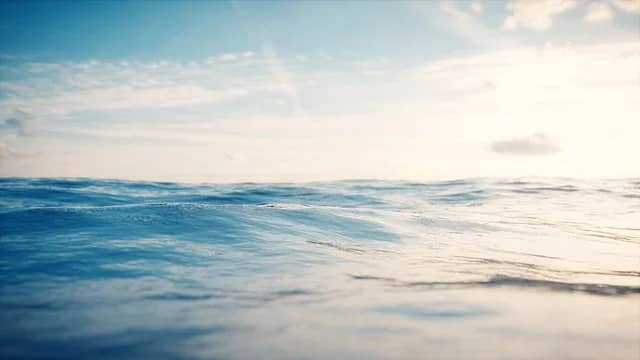
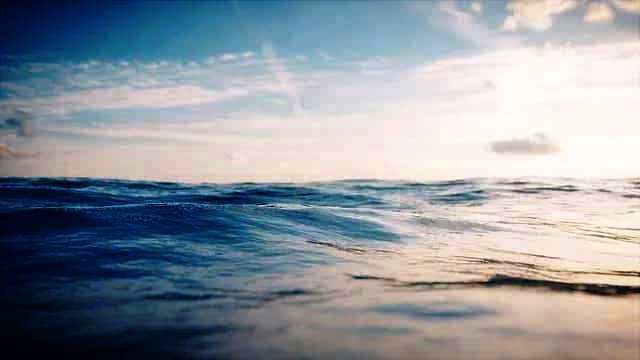
fetcn

diff --git a/html/index.html b/html/index.html
@@ -20,17 +20,19 @@
   <nav class="navbar navbar-expand-md bg-default navbar-light">
     <div class="container-fluid">
       <div class="navbar-header">
-        <a href="/html/index.html" class="navbar-brand">Pixabay</a>
+        <ul class="navbar-nav" id="nav">
+          <li><a href="/html/index.html" class="navbar-brand">
+              <h4>Pixabay</h4>
+            </a></li>
+          <li><a class="nav-link" href="#">Photos</a></li>
+          <li>
+            <a class="nav-link" href="#">Illustrations</a>
+          </li>
+          <li><a class="nav-link" href="#">Vectors</a></li>
+          <li><a class="nav-link" href="#">Videos</a></li>
+          <li><a class="nav-link" href="#">Music</a></li>
+        </ul>
       </div>
-      <ul class="navbar-nav">
-        <li><a class="nav-link" href="#">Photos</a></li>
-        <li class="nav-item">
-          <a class="nav-link" href="#">Illustrations</a>
-        </li>
-        <li><a class="nav-link" href="#">Vectors</a></li>
-        <li><a class="nav-link" href="#">Videos</a></li>
-        <li><a class="nav-link" href="#">Music</a></li>
-      </ul>
       <ul class="navbar-nav navbar-right">
         <li>
           <div class="dropdown">
@@ -104,51 +106,57 @@
   </nav>
 
   <section class="section">
-    <div class="container ">
-      <div class="jumbotron " id="cover">
-        <h2 class="text-center mt-5 text-white">Stunning free images & royalty free stock</h2>
-        <p class="text-center text-white">
-          Over 2.3 million+ high quality stock images, videos and music shared
-          by our talented community.
-        </p>
+    <div class="container">
 
-        <form id="searchForm">
-          <div class="input-group mb-3">
-            <div class="input-group-prepend">
-              <span class="input-group-text"> <button class="btn btn" type="submit"><i
-                    class="fa fa-search"></i></button></span>
-            </div>
-            <input type="text" class="form-control input-lg" name="" id="searchText"
-              placeholder="Search images,videos,vectors and music" />
-            <div class="input-group-append badge-danger">
-
-              <span class="input-group-text">
-                <div class="bxt">
-                  <select class="form-control">
-                    <option selected>Open this select menu</option>
-                    <option value="1">One</option>
-                    <option value="2">Two</option>
-                    <option value="3">Three</option>
-                </div>
-                </select>
-              </span>
-            </div>
-        </form>
-      </div>
+      <h2>Stunning free images & royalty free stock</h2>
       <p class="text-center">
+        Over 2.3 million+ high quality stock images, videos and music shared
+        by our talented community.
+      </p>
+
+      <form id="searchForm">
+        <div class="input-group">
+          <div class="input-group-prepend">
+            <span class="barbtn">
+              <button class="btn" id="searchbtn" type="submit"><i class="fa fa-search"></i></button></span>
+
+            <span class="input-group-text " id="input" style="background-color: white">
+
+
+              <input type="text" class="form-control-lg" name="" id="searchText"
+                placeholder="Search images,videos,vectors and music" />
+             <div class="dropmenu">Images   <i class="fal fa-chevron-down"></i></div>
+            </span>
+
+          </div>
+
+          <div class="dropbtn" id="dropbtn">
+            <div class="wrapper">
+              <p class="one">Images</p>
+              <p class="two">Photos</p>
+              <p class="three">Vector graphics</p>
+              <p class="four">Illustrations </p>
+              <p class="five">Videos</p>
+              <p class="six">Music</p>
+              <p class="seven">Search options →</p>
+            </div>
+          </div>
+
+        </div>
+      </form>
+      <p class="text-center" id="boxtext">
         Popular Images: nature, wallpaper, background, food, cat, sky,
         beach, love, dog, money, business, flower, coronavirus
       </p>
-
+      <p class="text-center" id="down">Free image by BlenderTimer</p>
     </div>
-    <p class="text-center" id="down">Free image by BlenderTimer</p>
-    </div> 
   </section>
   <div class="result bg-white">
     <div class="container">
       <div id="pictures" class="row"></div>
     </div>
   </div>
+
   <aside class="responsive">
 
     <div class="gallery">
@@ -279,7 +287,7 @@
     </div>
   </aside>
 
-  
+
   <script src="https://code.jquery.com/jquery-3.6.0.min.js"
     integrity="sha256-/xUj+3OJU5yExlq6GSYGSHk7tPXikynS7ogEvDej/m4=" crossorigin="anonymous"></script>
   <script src="https://unpkg.com/axios/dist/axios.min.js"></script>

diff --git a/css/style.css b/css/style.css
@@ -10,21 +10,8 @@ body {
   --bs-gutter-y: 1rem;
 }
 
-.col-md-3 {
-  padding-left: 1em;
-  padding-right: 1em;
-}
-.form-select {
-  border: none;
-}
-
-span .btn.active{
-    background-color: honeydew;
-    border: none;
-}
-
 .section {
-  background: url(/imageF/Image.jpeg);
+  background: url(/imageF/imageF.webp);
   background-position: center;
   background-repeat: no-repeat;
   -webkit-background-size: 100% 100%;
@@ -34,9 +21,96 @@ span .btn.active{
   height: 100%;
   width: 100%;
 }
+.container {
+  padding-top: 6rem;
+}
 
+.container h2 {
+  font-weight: 600;
+  color: #ffffff;
+  font-size: 38px;
+  padding-left: 12rem;
+}
+.container p {
+  font-weight: 500;
+  color: #ffffff;
+  font-size: 20px;
+}
+p {
+  font-weight: 100;
+  color: #ffffff;
+  padding-top: 10px;
+  font-size: 17px;
+}
+#input {
+  margin-left: 7em;
+}
+.form-control-lg {
+  width: 680px;
+  border: 0;
+  outline: none;
+  margin-left: 1.5em;
+}
+.barbtn {
+  position: relative;
+  left: 10.5rem;
+  top: 0.8em;
+}
+#searchbtn {
+  border: 0;
+  background-color: white;
+  outline: white;
+}
+
+.barbtn i {
+  color: gray;
+  font-weight: lighter;
+}
+
+.dropbtn {
+  display: none;
+  background-color: black;
+  box-sizing: border-box;
+  width: 15%;
+  position: absolute;
+  left: 48rem;
+  border-radius: 5px;
+  margin-top: 4rem;
+}
+.dropbtn.active {
+  display: flex;
+}
+.wrapper p {
+  display: flex;
+  flex-direction: column;
+  justify-content: space-between;
+  width: 70%;
+  height: 25px;
+}
+
+.dropbtn p:hover {
+  background-color: #80808023;
+  width: 70%;
+  border-width: 50%;
+}
+.dropbtn p {
+  margin-left: 2em;
+  font-size: 14px;
+  margin-top: 8px;
+  padding-top: -3rem;
+  color: slategrey;
+}
+
+.seven {
+  border-top: 0.5px solid gray;
+  width: 70%;
+}
+.dropmenu {
+  font-size: 18px;
+  font-weight: 400;
+}
 #picture {
-    display:flex;
+  display: flex;
   background: white;
 }
 .upbtn {
@@ -73,15 +147,10 @@ span .btn.active{
   flex-direction: row;
   flex-wrap: wrap;
 }
-.firstone {
-}
+
 .firstone:hover + .hide {
   display: flex;
   color: #fff;
-}
-
-#cover {
-  background: url("bg.jpg") no-repeat center center;
 }
 
 div.gallery img {
@@ -98,22 +167,12 @@ div.gallery img {
   flex-wrap: wrap;
 }
 
-.text-center{
-    margin-top: 1rem;
-    padding-left: 5em;
+#boxtext {
+  margin-top: 1rem;
+  padding-left: 1em;
+  font-size: 16px;
 }
-#down{
-    margin-top: 9rem;
-}
-
-@media only screen and (max-width: 700px) {
-  .responsive {
-    width: 49.99999%;
-  }
-}
-
-@media only screen and (max-width: 500px) {
-  .responsive {
-    width: 100%;
-  }
+#down {
+  margin-top: 9rem;
+  font-size: 17px;
 }

diff --git a/js/script.js b/js/script.js
@@ -9,9 +9,7 @@ $(document).ready(() => {
 function getPicture(searchText) {
   axios
     .get(
-      "https://pixabay.com/api/?key=22894566-4e17b23e8144e49c421bbf7f0&q=" +
-        searchText
-    )
+      "https://pixabay.com/api/?key=22894566-4e17b23e8144e49c421bbf7f0&q="+searchText)
     .then((response) => {
       console.log(response);
       let images = response.data.hits;
@@ -20,7 +18,7 @@ function getPicture(searchText) {
         output += `
         <div class= "col-md-3">
         <div class= "text-center" >
-        <img src="${pics.userImageURL}" />  
+        <img src="${pics.imageURL}" />  
         </div>
         
         </div>        
@@ -35,3 +33,9 @@ function getPicture(searchText) {
     });
 }
 
+const dropMenu = document.querySelector('.dropmenu');
+const dropBtnMenu = document.querySelector("#dropbtn");
+
+dropMenu.addEventListener("click", () => {
+  dropBtnMenu.classList.toggle("active");
+});
